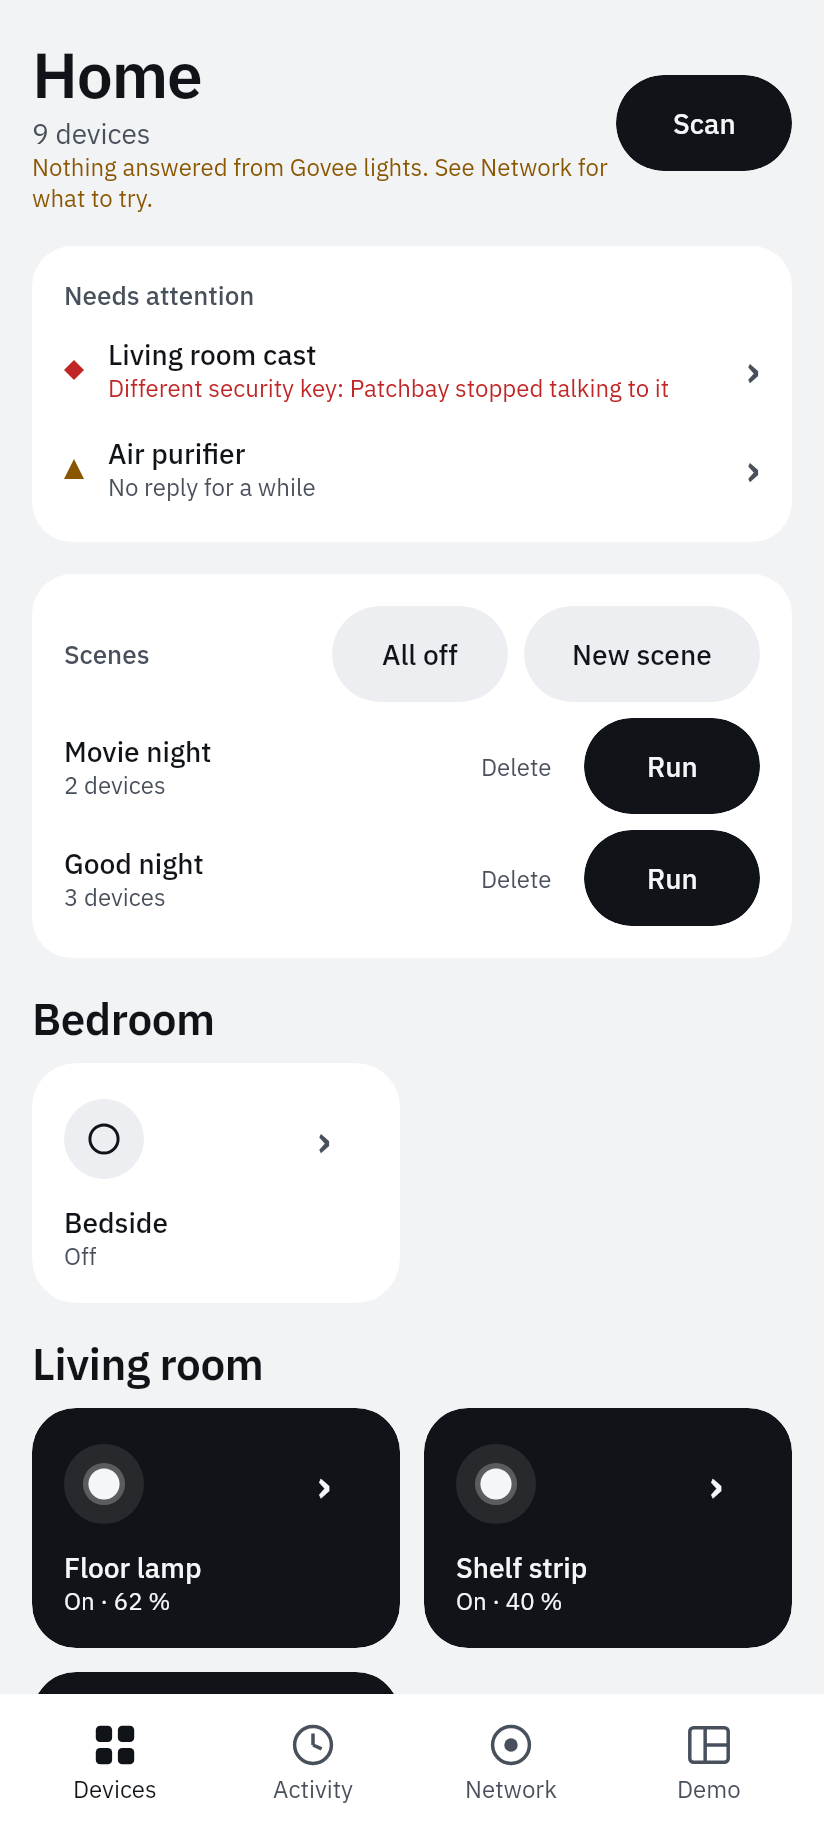
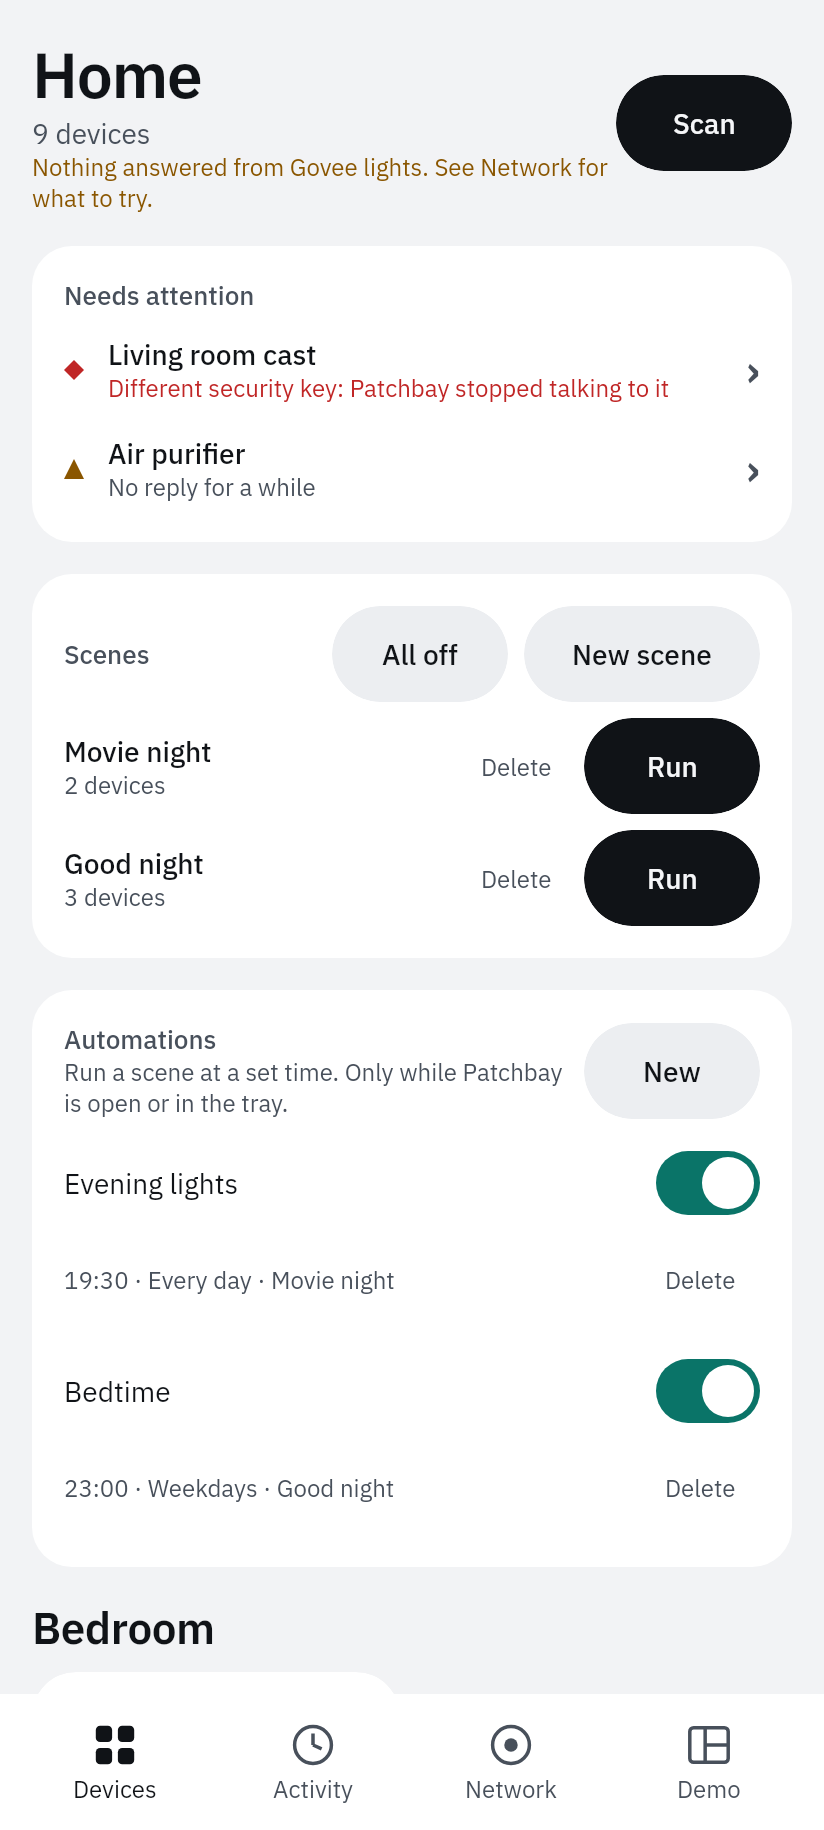
docs(design): re-record goldens with automations; ideas updated
Claude-Session: https://claude.ai/code/session_01VKgrBEm7ZaxNZiCGqfgE4v

diff --git a/docs/IDEAS.md b/docs/IDEAS.md
@@ -16,9 +16,9 @@ Researched 2026-11-07 from community posts and product write-ups (practitioner o
 
 | Idea | Why it's interesting | What it needs |
 |---|---|---|
-| **Adaptive lighting**: colour temperature follows the day (cool and bright at noon, warm in the evening) | One of the few features people never turn off ([Apple Home](https://www.macworld.com/article/3563913/homekit-in-ios-14-support-for-facial-recognition-and-adaptive-lighting.html)) | Something running in the background: a Windows tray mode first. Time-of-day curve per light, off by default |
+| **Adaptive lighting**: colour temperature follows the day (cool and bright at noon, warm in the evening) | One of the few features people never turn off ([Apple Home](https://www.macworld.com/article/3563913/homekit-in-ios-14-support-for-facial-recognition-and-adaptive-lighting.html)) | The Windows tray mode now exists, so this can be built on the automation scheduler. Time-of-day curve per light, off by default |
 | **Home / Away / Sleep modes** driving other things, including fake occupancy while on holiday | Top answers in the Home Assistant thread | Needs an automation engine and presence. No location or SSID by design: presence could be "your phone is on the home Wi-Fi", which is already visible without reading the SSID |
-| **Automations** (scene at a time, or when a device changes) | The core of every system | Scheduler plus triggers; runs only while Patchbay is open until the tray mode exists |
+| **Automations: triggers** (when a device changes, sunset) | Time-of-day scenes are built; triggers aren't | Sunset needs a typed home location (never read from the phone) |
 | **Suggested automations** when you add a device (Apple Home suggests daily adaptive lighting) | Lowers the barrier for new users | After automations exist |
 | **Quiet hours and battery thresholds** for alerts (SmartThings: 15 % and 5 %, daytime only) | Avoids 3 a.m. notifications | Notifications (Phase 2) and battery sensors |
 | **Energy per plug** (Kasa emeter plugs report watts) | The Home Assistant energy dashboard is a favourite | An emeter-capable plug; yours (HS103) doesn't report it |

diff --git a/docs/design/screens/README.md b/docs/design/screens/README.md
@@ -2,7 +2,7 @@
 
 These PNGs are rendered by `ui/src/desktopTest/.../ScreenshotTest.kt` from the deterministic demo home.
 
-**Recorded 2026-11-06** from the CI render of commit `6311a9e` (33 PNGs: light, dark and night, phone and desktop, including the live tile screens the Network screen and Settings), after the visual redesign (ADR 0009). The
+**Recorded 2026-11-06** from the CI render of commit `9a6ffa4` (33 PNGs: light, dark and night, phone and desktop, including the live tile screens the Network screen and Settings), after the visual redesign (ADR 0009). The
 `:ui:desktopTest` run in CI compares every render with these and fails on drift (ADR 0006).
 
 When you change the UI on purpose, re-record and review the images before committing them. In CI, run the
